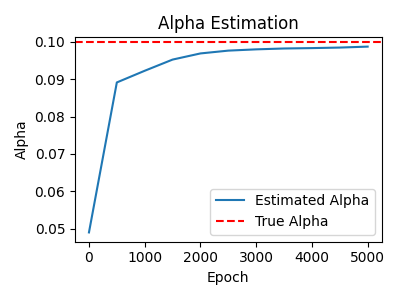
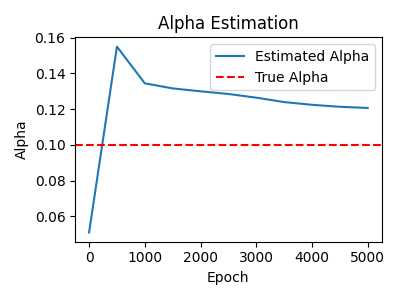
mees mine kanni, asi töötab ja plotib

diff --git a/training.py b/training.py
@@ -1,31 +1,39 @@
+# flake8: noqa: F401  # Ignore the unused import warning
+
 import torch
 import os
 import numpy as np
 import matplotlib.pyplot as plt
 
-from analytical_solutions import exact_solution
+from analytical_solutions import exact_solution, exact_solution_source
 from noise_generator import generate_noisy_data
 
 
-def train_pinn(pinn, params, inversion=False):
+def train_pinn(pinn, params, solution_func, inversion=False, with_source=False):
     """
-    Trains the PINN model
+    Trains the PINN model.
+
     Args:
     - pinn: The initialized FCN model.
     - params: A dictionary of parameters loaded from params.yaml.
+    - solution_func: The function to compute the exact solution (either exact_solution or exact_solution_source).
+    - inversion: A flag to switch between data inversion (with noisy data) or standard training.
+    - with_source: A flag to include the source term in the PDE or not.
+
+    Returns:
+    - None
     """
 
     # Ensure the directory exists
     os.makedirs("plots/training", exist_ok=True)
 
     if inversion:
-
         # Ensure the directory for saving plots exists
         inversion_plot_dir = "plots/inversion"
-        os.makedirs(inversion_plot_dir, exist_ok=True)  # Creates the folder
+        os.makedirs(inversion_plot_dir, exist_ok=True)
 
-        # Visualization and data generation with exact_function
-        x, t, U_exact, U_noisy = generate_noisy_data(exact_solution)
+        # Visualization and data generation with the selected solution function (either with or without source term)
+        x, t, U_exact, U_noisy = generate_noisy_data(solution_func)
 
         # Convert noisy data to torch tensors
         U_noisy_torch = U_noisy.clone().detach().reshape(-1, 1).type(torch.float32)
@@ -79,7 +87,7 @@ def train_pinn(pinn, params, inversion=False):
     lambda_data = 10.0
     optimizer = torch.optim.Adam(pinn.parameters(), lr=1e-3)
 
-    # Training
+    # Training loop
     for epoch in range(5001):
         optimizer.zero_grad()
 
@@ -92,7 +100,7 @@ def train_pinn(pinn, params, inversion=False):
         u_initial_true = torch.sin(np.pi * x_initial)
         loss_ic = torch.mean((u_initial - u_initial_true) ** 2)
 
-        # Physics loss (PDE)
+        # Physics loss (PDE) - Now conditionally including the source term
         u = pinn(X_physics)  # Predict u(x, t)
 
         u_x = torch.autograd.grad(u, X_physics, torch.ones_like(u), create_graph=True)[0][:, 0:1]
@@ -102,9 +110,15 @@ def train_pinn(pinn, params, inversion=False):
         if inversion:
             # Data loss comparing with noisy data
             loss_data = torch.mean((u - U_noisy_torch) ** 2)
-            loss_pde = torch.mean((u_t - (getattr(pinn, 'alpha', 0.1) * u_xx)) ** 2)  # adds alpha to train
+            if with_source:  # source term is included
+                loss_pde = torch.mean((u_t - (getattr(pinn, "alpha", 0.1) * u_xx + 1)) ** 2)  # Source term is 1
+            else:
+                loss_pde = torch.mean((u_t - getattr(pinn, "alpha", 0.1) * u_xx) ** 2)  # No source term
         else:
-            loss_pde = torch.mean((u_t - alpha_true * u_xx) ** 2)
+            if with_source:  # source term is included
+                loss_pde = torch.mean((u_t - alpha_true * u_xx - 1) ** 2)  # Source term is 1
+            else:
+                loss_pde = torch.mean((u_t - alpha_true * u_xx) ** 2)  # No source term
 
         # Total loss
         loss = (
@@ -134,7 +148,9 @@ def train_pinn(pinn, params, inversion=False):
                 t_test = torch.tensor(0.1).repeat(100).view(-1, 1)
                 X_test = torch.cat([x_test, t_test], dim=1)
                 u_pred = pinn(X_test).detach()
-                u_exact = exact_solution(x_test, t_test, alpha_true)
+
+                # Use the chosen solution function (either exact_solution or exact_solution_source)
+                u_exact = solution_func(x_test, t_test, alpha_true)
 
                 plt.figure(figsize=(4.5, 2.5))
                 plt.plot(x_test, u_exact, label="Exact Solution", color="gray", linestyle="dashed")

diff --git a/main.py b/main.py
@@ -4,6 +4,7 @@ import numpy as np
 
 from models import FCN
 from training import train_pinn
+from analytical_solutions import exact_solution, exact_solution_source
 
 
 def load_params():
@@ -15,7 +16,6 @@ def load_params():
 
 
 def main():
-
     params = load_params()
 
     # Set random seed for reproducibility
@@ -23,22 +23,22 @@ def main():
     torch.manual_seed(seeds)
     np.random.seed(seeds)
 
-    # Add 'inversion' key to config
-    params["model_params"]["inversion"] = False  # Wouldn't work without this
+    # Add 'inversion' key to config, which is used later
+    params["model_params"]["inversion"] = False  # Initially no inversion
 
-    # Initialize PINN model with the config dictionary as a single argument
+    # Initialize PINN model with the config dictionary
     pinn = FCN(config=params["model_params"])
 
-    # Train PINN
-    print("Training PINN...")
-    train_pinn(pinn, params, inversion=False)
+    # First training phase: using exact_solution (no source term)
+    print("Training PINN with exact solution (no source term)...")
+    train_pinn(pinn, params, solution_func=exact_solution, inversion=False, with_source=False)
 
-    # Perform parameter inversion
-    params["model_params"]["inversion"] = True  # Otherwise wouldn't invert
+    # Perform parameter inversion (now using the source term in the PDE)
+    params["model_params"]["inversion"] = True  # Enables inversion next phase
     pinn_inversion = FCN(config=params["model_params"])
 
-    print("Performing parameter inversion...")
-    train_pinn(pinn_inversion, params, inversion=True)
+    print("Performing parameter inversion with exact solution source term...")
+    train_pinn(pinn_inversion, params, solution_func=exact_solution_source, inversion=True, with_source=True)
 
 
 if __name__ == "__main__":

diff --git a/analytical_solutions.py b/analytical_solutions.py
@@ -26,6 +26,7 @@ def exact_solution_source(x, t, alpha):
     With boundary conditions:
     - u(x, 0) = sin(pi x) / (alpha * pi^2 + 1)
     - u(0, t) = u(1, t) = 0
+    And a source term f(x, t) = 1.
 
     Args:
     - t: time
@@ -42,5 +43,8 @@ def exact_solution_source(x, t, alpha):
     if isinstance(t, np.ndarray):
         t = torch.tensor(t, dtype=torch.float32)
 
-    # Computed manually, but added here
-    return (torch.sin(np.pi * x) / (alpha * np.pi**2 + 1)) * (1 - torch.exp(-(alpha * np.pi**2 + 1) * t))
+    # The analytical solution with the source term included
+    term_1 = (torch.sin(np.pi * x) / (alpha * np.pi**2 + 1)) * (1 - torch.exp(-(alpha * np.pi**2 + 1) * t))
+    term_2 = 1 / (alpha * np.pi**2 + 1)
+
+    return term_1 + term_2
